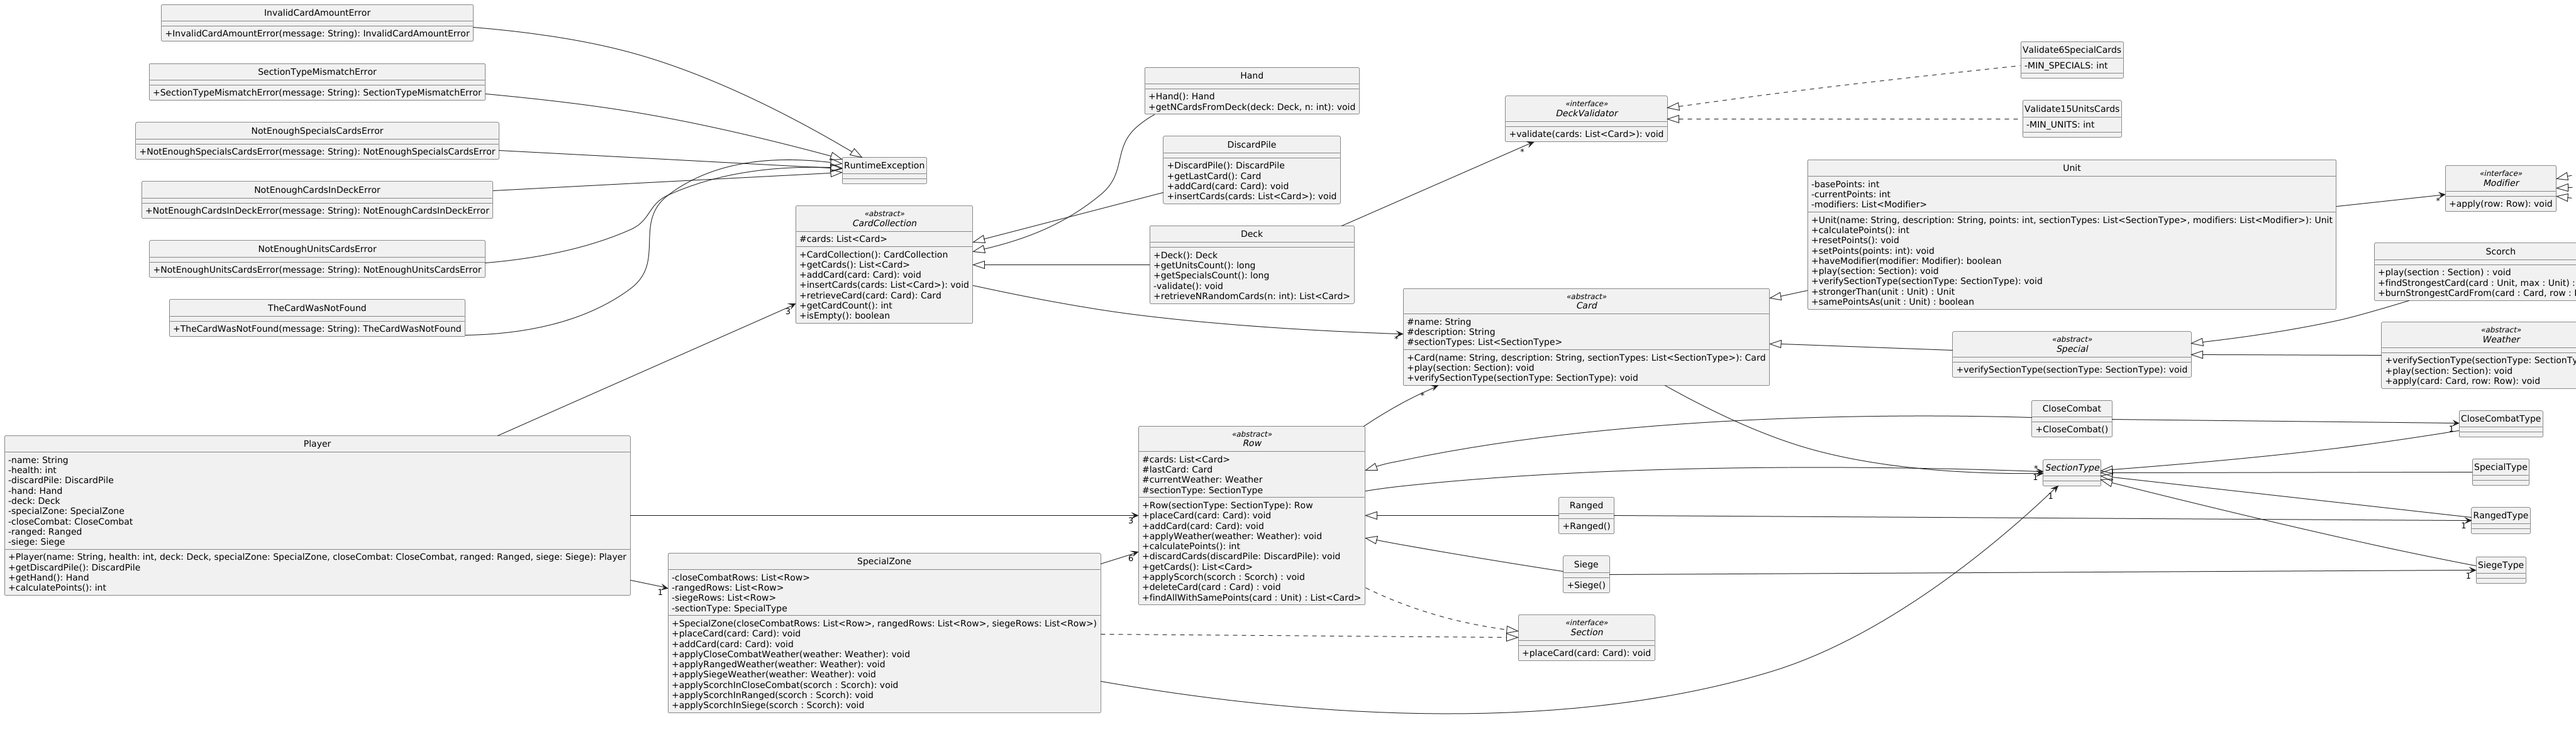
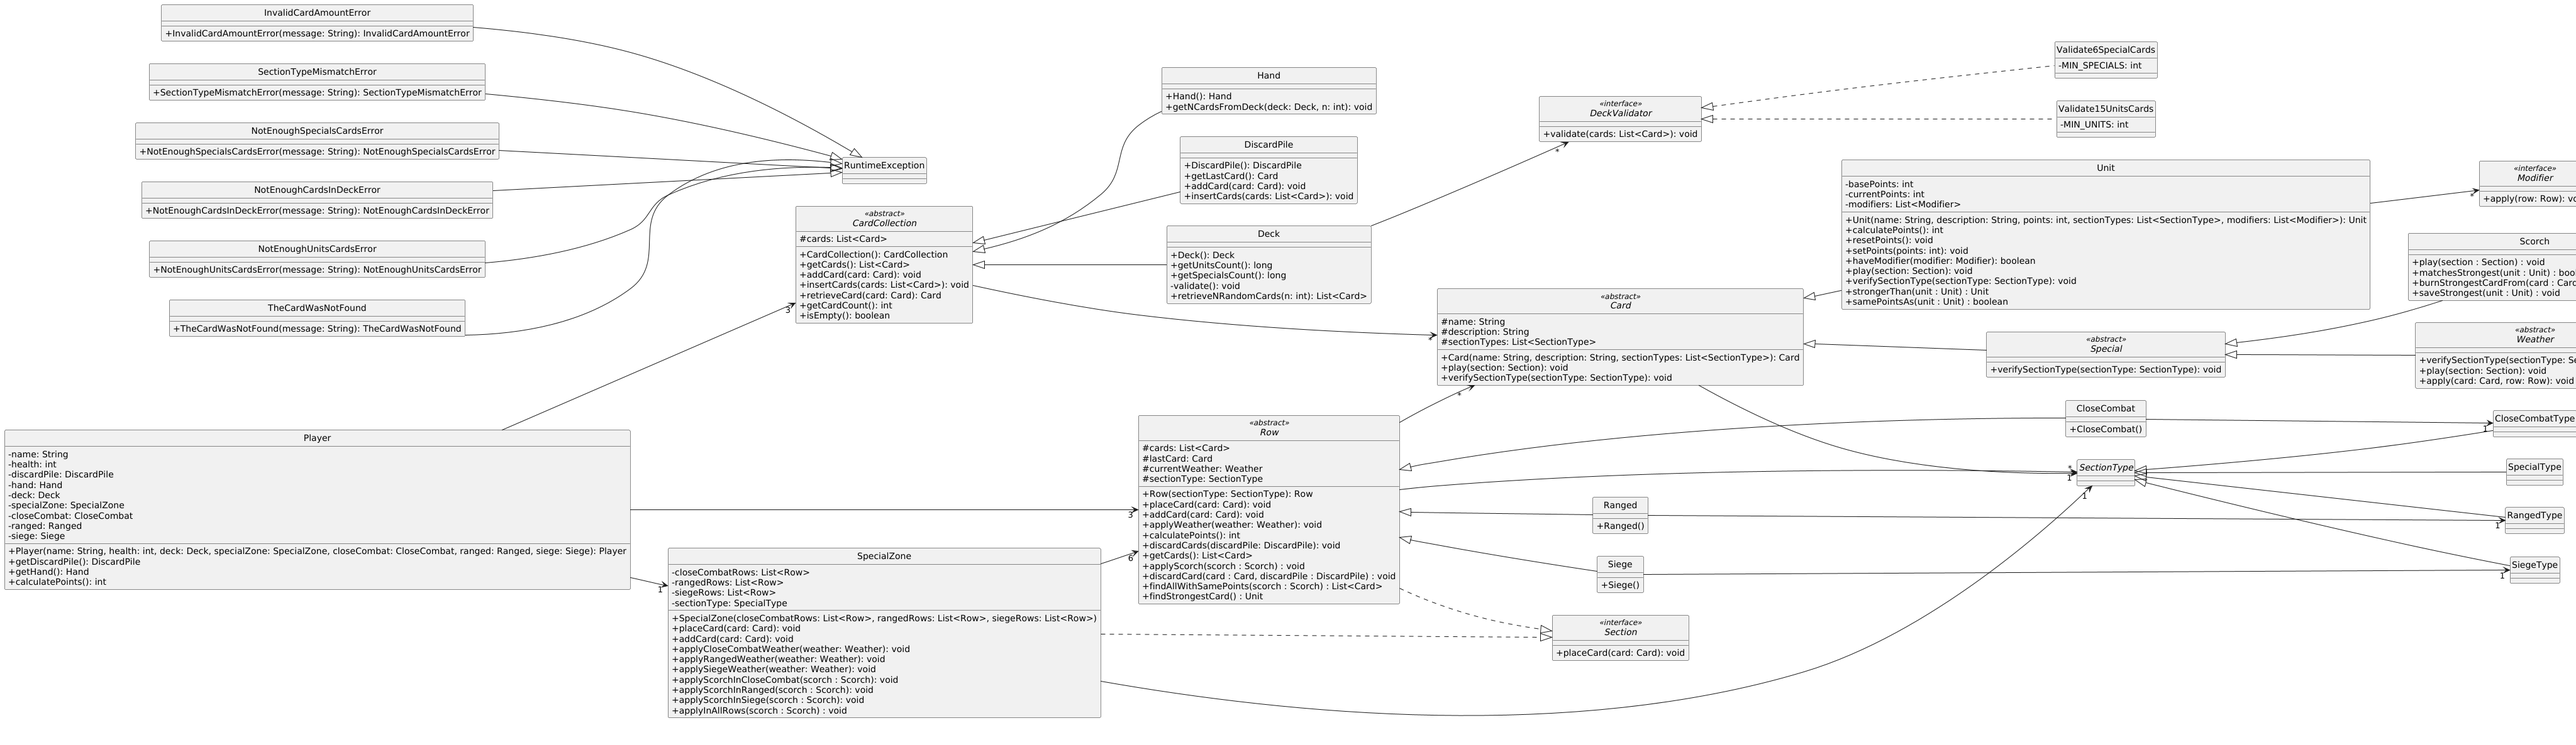
actualizado segun cambios

diff --git a/src/main/test/edu/fiuba/algo3/modelo/cards/specials/ScorchTest.java b/src/main/test/edu/fiuba/algo3/modelo/cards/specials/ScorchTest.java
@@ -174,6 +174,4 @@ public class ScorchTest {
         assertFalse(rangedRow2.getCards().contains(unidad2Oponente));
         assertTrue(siegeRow2.getCards().contains(unidad3Oponente));
     }
-
-    // falta test donde se juegue una Hero y esta no sea eliminada
 }
